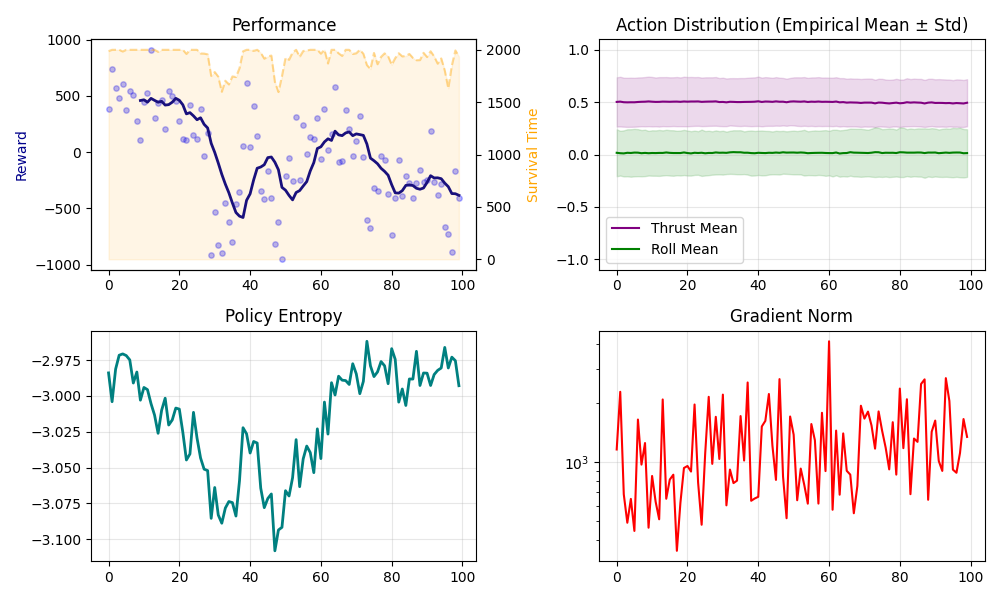
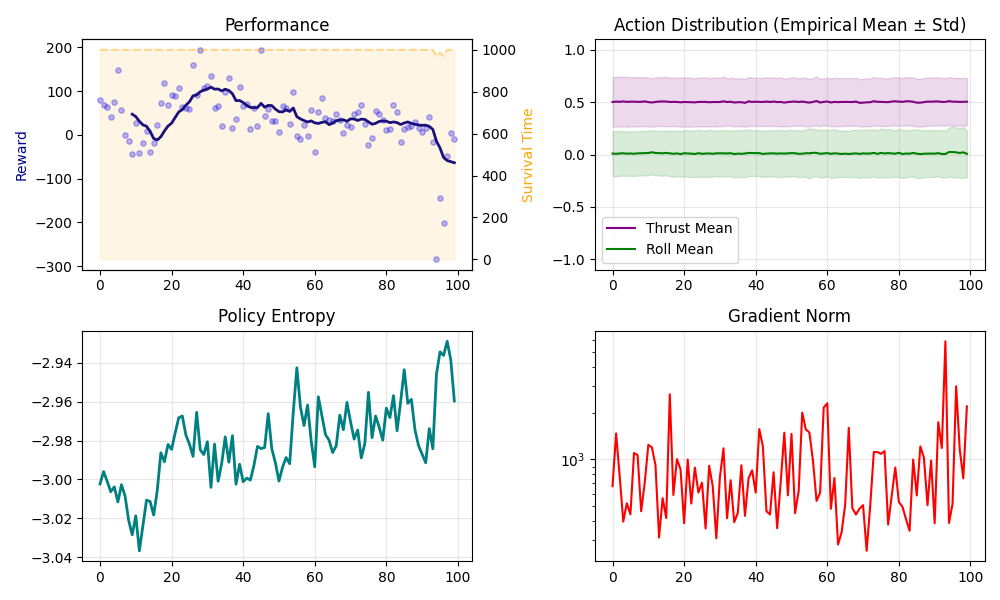
Switch tis_training to False in main for merge. Added final best reinforce result

diff --git a/main.py b/main.py
@@ -18,7 +18,7 @@ def generate_controller() -> FlightController:
     return NeuralReinforceController()
 
 def is_training() -> bool:
-    return True # <--- Replace this with True if you want to train, false otherwise
+    return False # <--- Replace this with True if you want to train, false otherwise
 def is_saving() -> bool:
     return True # <--- Replace this with True if you want to save the results of training, false otherwise
 
